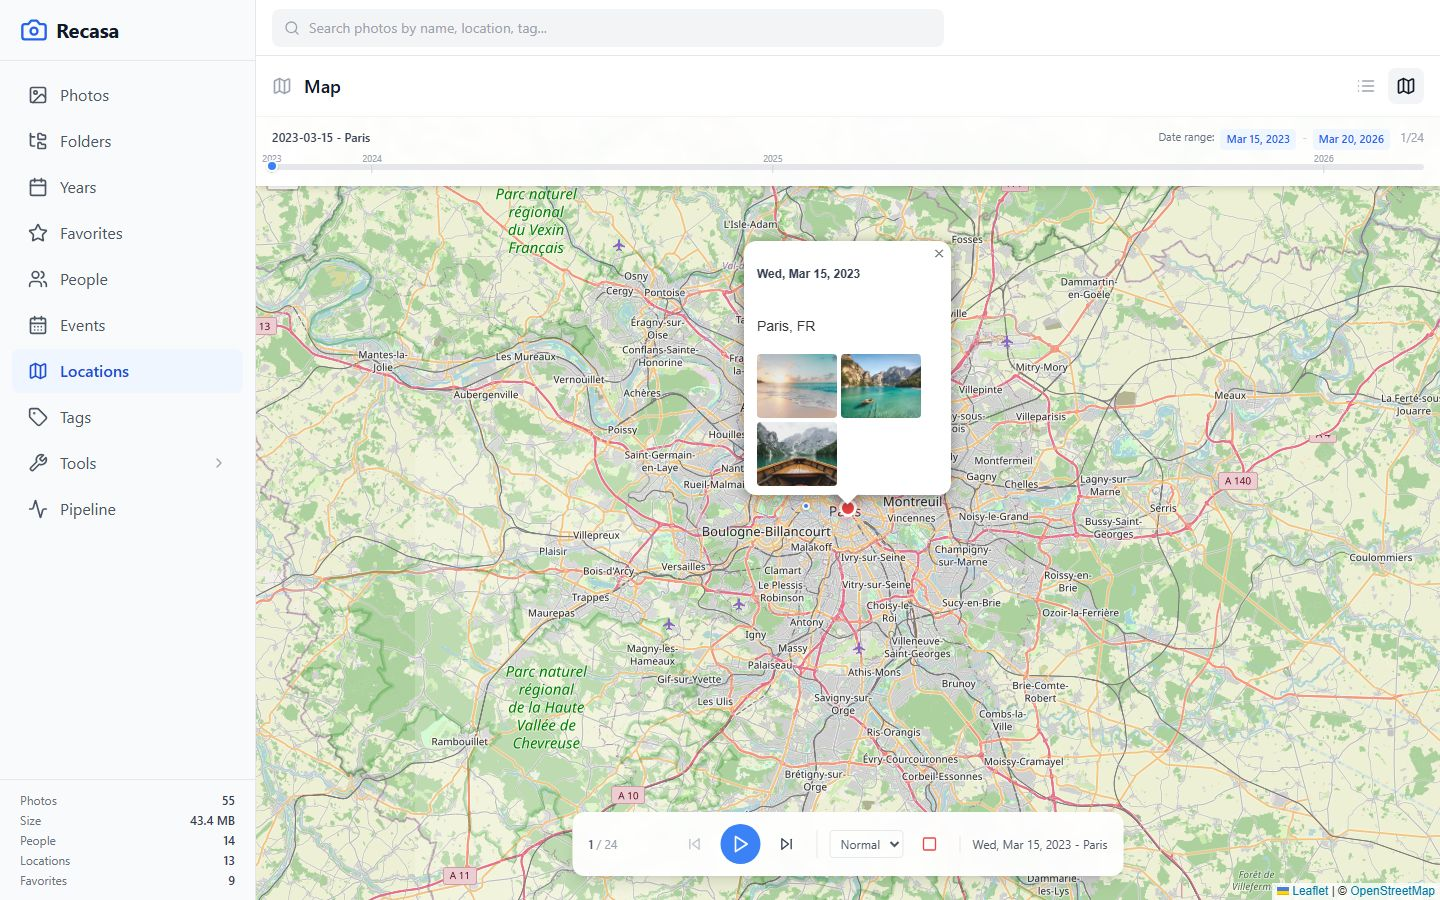
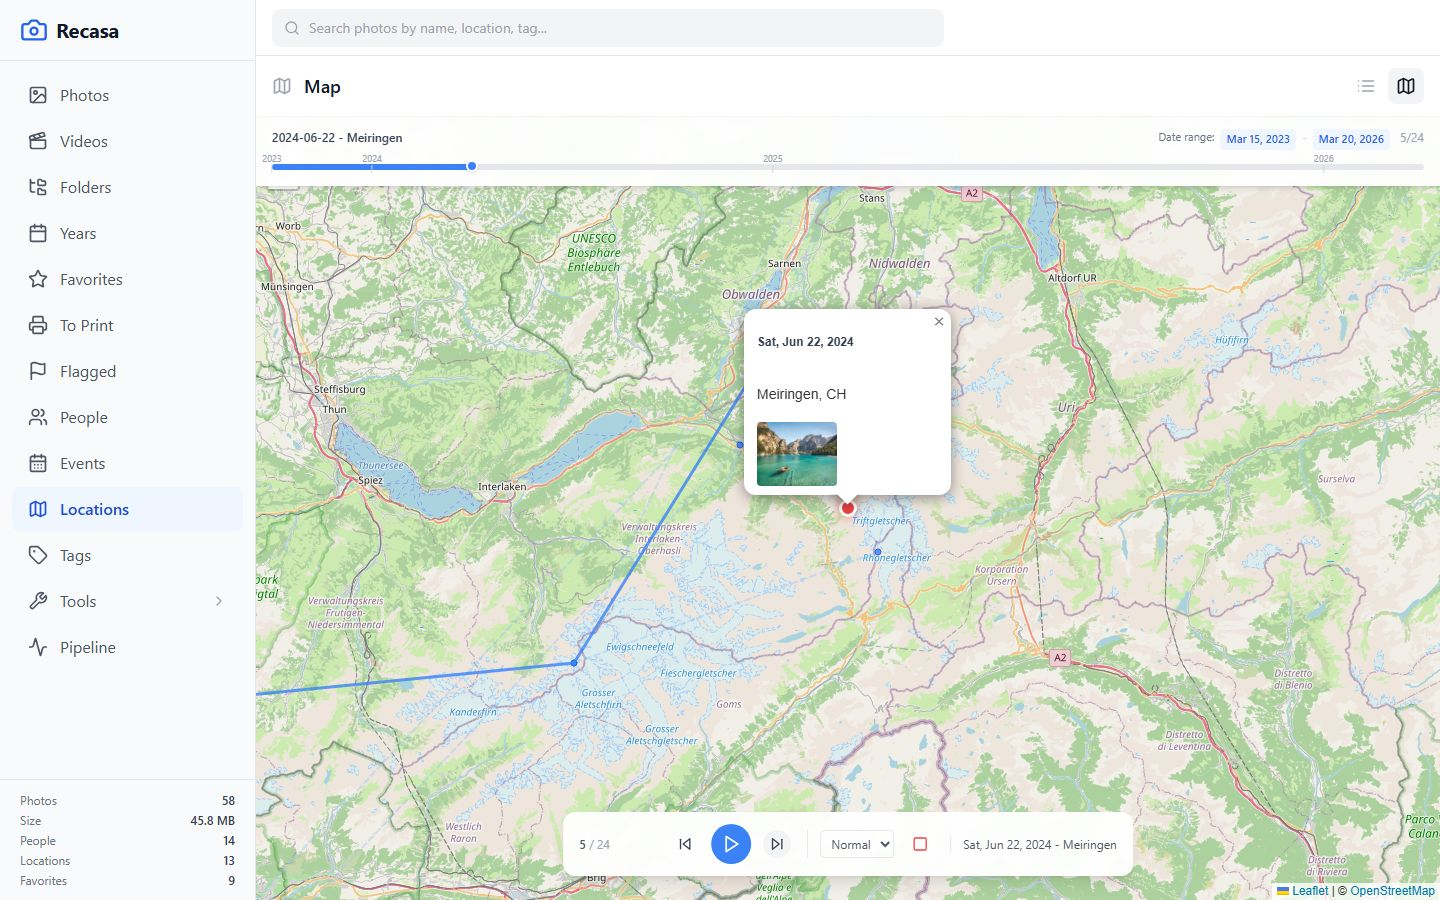
Showcase Hero Trail in the README
Add a Hero Trail highlight with a fresh demo screenshot of the
chronological route replay.

diff --git a/README.md b/README.md
@@ -33,6 +33,13 @@ you can jump straight to the era you're looking for.
 
 ![Year cards with preview photos](docs/screenshots/years.jpg)
 
+### Hero Trail
+
+Watch your travels replay across the map in chronological order — the route
+draws itself stop by stop, with the photos from each place, scrubbable by date.
+
+![Hero Trail replaying a route across the map](docs/screenshots/hero-trail.jpg)
+
 ### To Print
 
 Collect photos for printing the way you favorite them, review print quality
